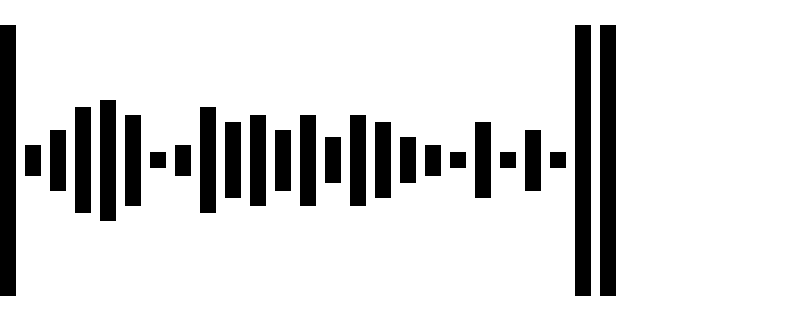
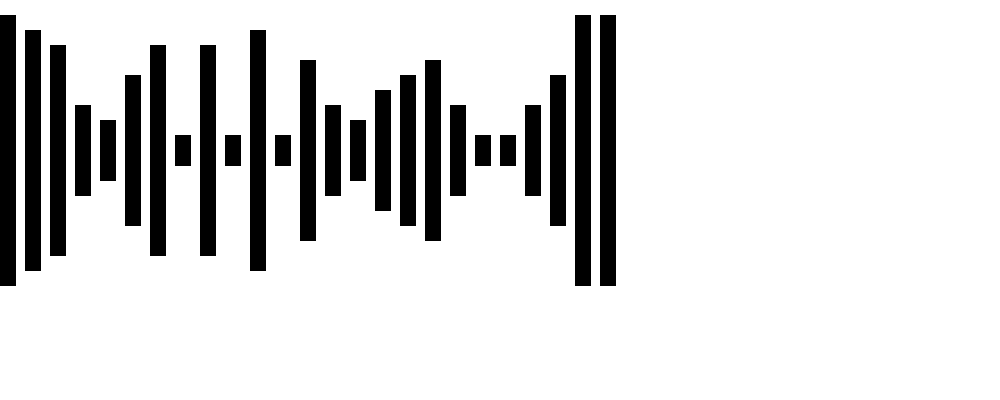
:(

Changed region(s): [[0.0, 0.0312, 0.7812, 0.9375]]

diff --git a/create_label.py b/create_label.py
@@ -41,14 +41,14 @@ def calculate_ratios(heights: List[float]):
     """
     ratios = []
     for height in heights:
-        ratio = height / 0.4
+        ratio = height / 0.91
         if 0 < ratio <= 0.125:
             ratios.append(0)
-        elif 0.125 < ratio <= 0.25:
+        elif 0.125 < ratio <= 0.26:
             ratios.append(1)
-        elif 0.25 < ratio <= 0.375:
+        elif 0.26 < ratio <= 0.381:
             ratios.append(2)
-        elif 0.375 < ratio <= 0.5:
+        elif 0.381 < ratio <= 0.5:
             ratios.append(3)
         elif 0.5 < ratio <= 0.625:
             ratios.append(4)
@@ -56,7 +56,7 @@ def calculate_ratios(heights: List[float]):
             ratios.append(5)
         elif 0.75 < ratio <= 0.875:
             ratios.append(6)
-        elif 0.875 < ratio <= 1:
+        elif 0.875 < ratio:
             ratios.append(7)
     return bar_to_b64(ratios)
 
@@ -72,10 +72,11 @@ def analyze_bar(src: np.array) -> List[str]:
         List[int] List of b64 characters converted from the image
     """
     # Detecting Bar's height
+
     src = cv2.resize(src, (300, 150))
     src = src[10:-10, 10:-10]
+    cv2.imshow("src", src)
     img = src
-    # _, thresh = cv2.threshold(src, 127, 255, 1)
     thresh = cv2.adaptiveThreshold(src, 255, cv2.ADAPTIVE_THRESH_GAUSSIAN_C, cv2.THRESH_BINARY, 9, 5)
     contours, h = cv2.findContours(thresh, 1, 2)
     bar_heights = []
@@ -86,8 +87,8 @@ def analyze_bar(src: np.array) -> List[str]:
         top = (cnt[cnt[:, :, 1].argmin()])[0][1]
         bottom = (cnt[cnt[:, :, 1].argmax()])[0][1]
         x = (cnt[cnt[:, :, 0].argmax()][0])[0]
-        height = round((bottom - top) / img_height, 2)
-        if height > 0.9:
+        height = round((bottom - top) / img_height, 5)
+        if height < 0.05 or height > 0.99:
             continue
         count += 1
         org = (x, img_height - 40)
@@ -103,7 +104,8 @@ def analyze_bar(src: np.array) -> List[str]:
     sorted_bars = sorted(sorted_bars)
     sorted_bars_final = [bar for _, bar in sorted_bars]
     print(sorted_bars_final)
-    b64_values = calculate_ratios(sorted_bars_final[1:-2])
+    print(len(sorted_bars_final))
+    b64_values = calculate_ratios(sorted_bars_final)
     return b64_values
 
 
@@ -119,20 +121,19 @@ def generate_bar_from_code(text: str):
         None
     """
     nums = b64_to_bar(text)
-    print(nums)
     bars = BarGenerator()
     bars.draw_bar(0, 0.9)
     bars.draw_bar(len(nums) + 1, 0.9)
     bars.draw_bar(len(nums) + 2, 0.9)
     for index, x in enumerate(nums):
-        bars.draw_bar(index + 1, 0.05 * (x + 1))
+        bars.draw_bar(index + 1, 0.8 * (x + 1))
     return bars
 
 
 def main():
-    bars = generate_bar_from_code("OcHuxFJvKmI")
+    bars = generate_bar_from_code("-RmGHFRcqAU")
     cv2.imwrite("Bars.png", bars.img)
-    analyze_bar(cv2.cvtColor(bars.img, cv2.COLOR_BGR2GRAY))
+    # analyze_bar(cv2.cvtColor(bars.img, cv2.COLOR_BGR2GRAY))
 
 
 if __name__ == "__main__":

diff --git a/b64_to_bar.py b/b64_to_bar.py
@@ -13,7 +13,7 @@ for i in range(1, 10):
     lookup_table[str(i)] = i + 52
 
 # TODO add '-' support
-lookup_table["+"] = 62
+lookup_table["-"] = 62
 lookup_table["/"] = 63
 
 inv_lookup = {v: k for k, v in lookup_table.items()}
@@ -57,6 +57,7 @@ def bar_to_b64(code: List[int]) -> List[int]:
         (List[int]) List of b64 converted values
     """
     b64_list = []
+    print("CODE:", code)
     for i in range(0, len(code), 2):
         b10 = int((str(code[i]) + str(code[i + 1])), 8)
         b64_list.append(inv_lookup[b10])

diff --git a/detect_label.py b/detect_label.py
@@ -77,8 +77,8 @@ def get_webcam_img():
 
 
 def main():
-    img = get_webcam_img()
-    # img = cv2.imread("webcam.png", 0)
+    # img = get_webcam_img()
+    img = cv2.imread("webcam3.png", 0)
     # img = add_rectangle(img)
     cv2.imshow("Original", img)
     res = detect_rectangle(img)
